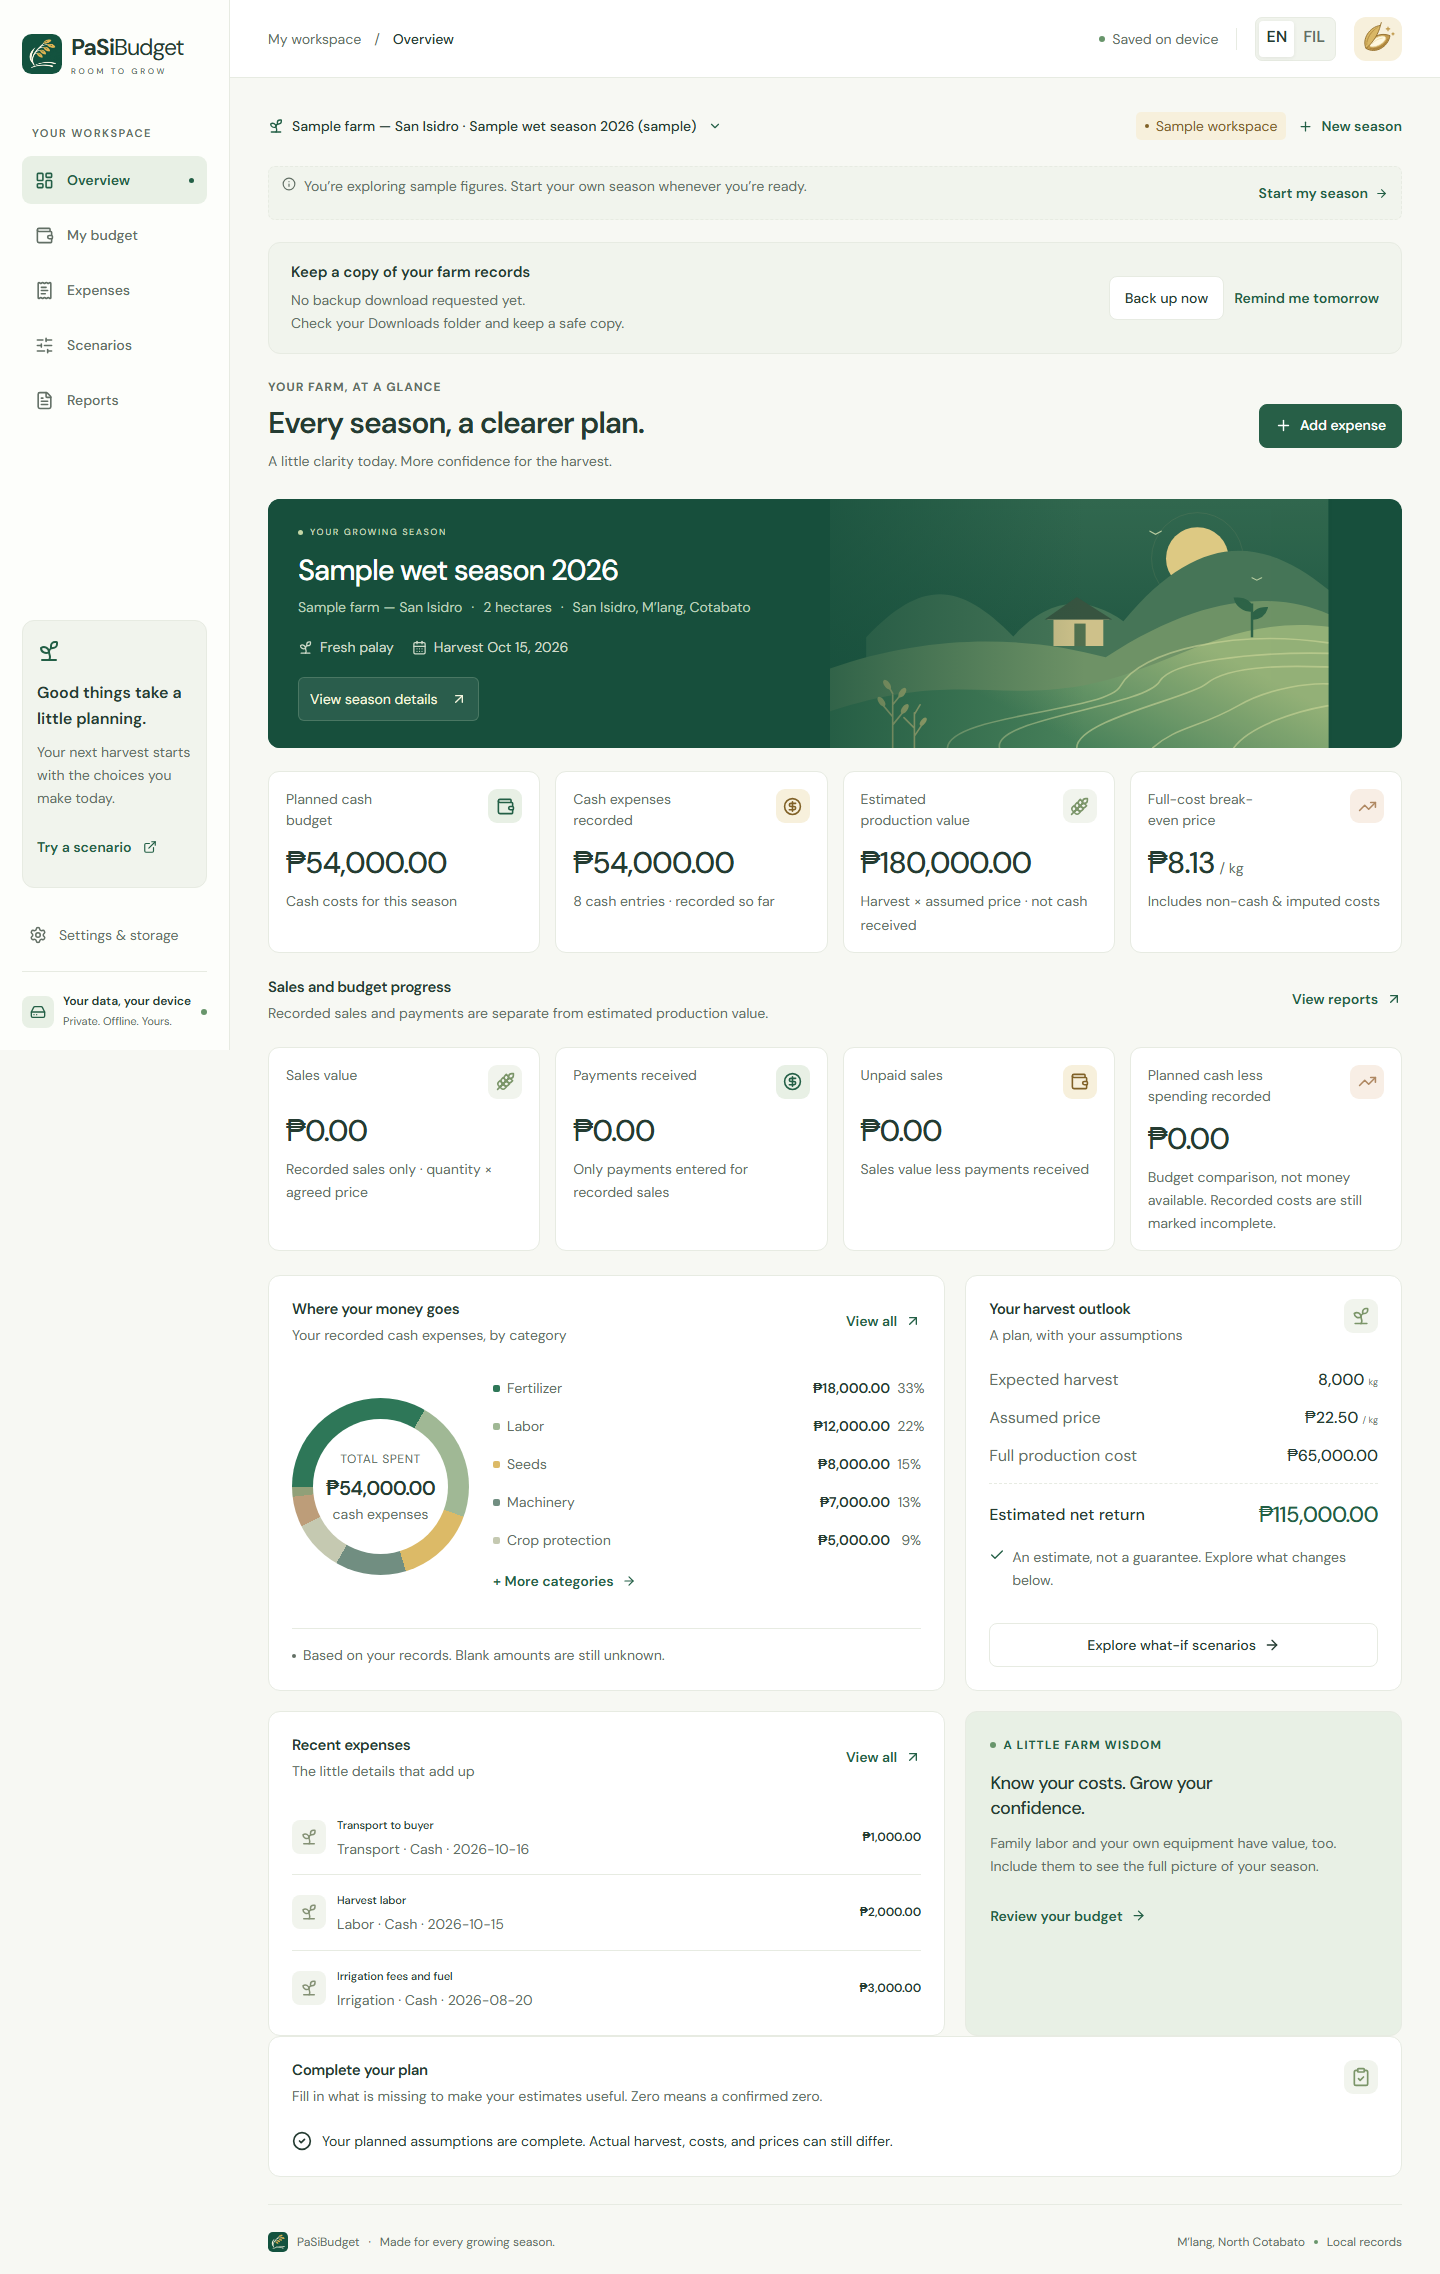
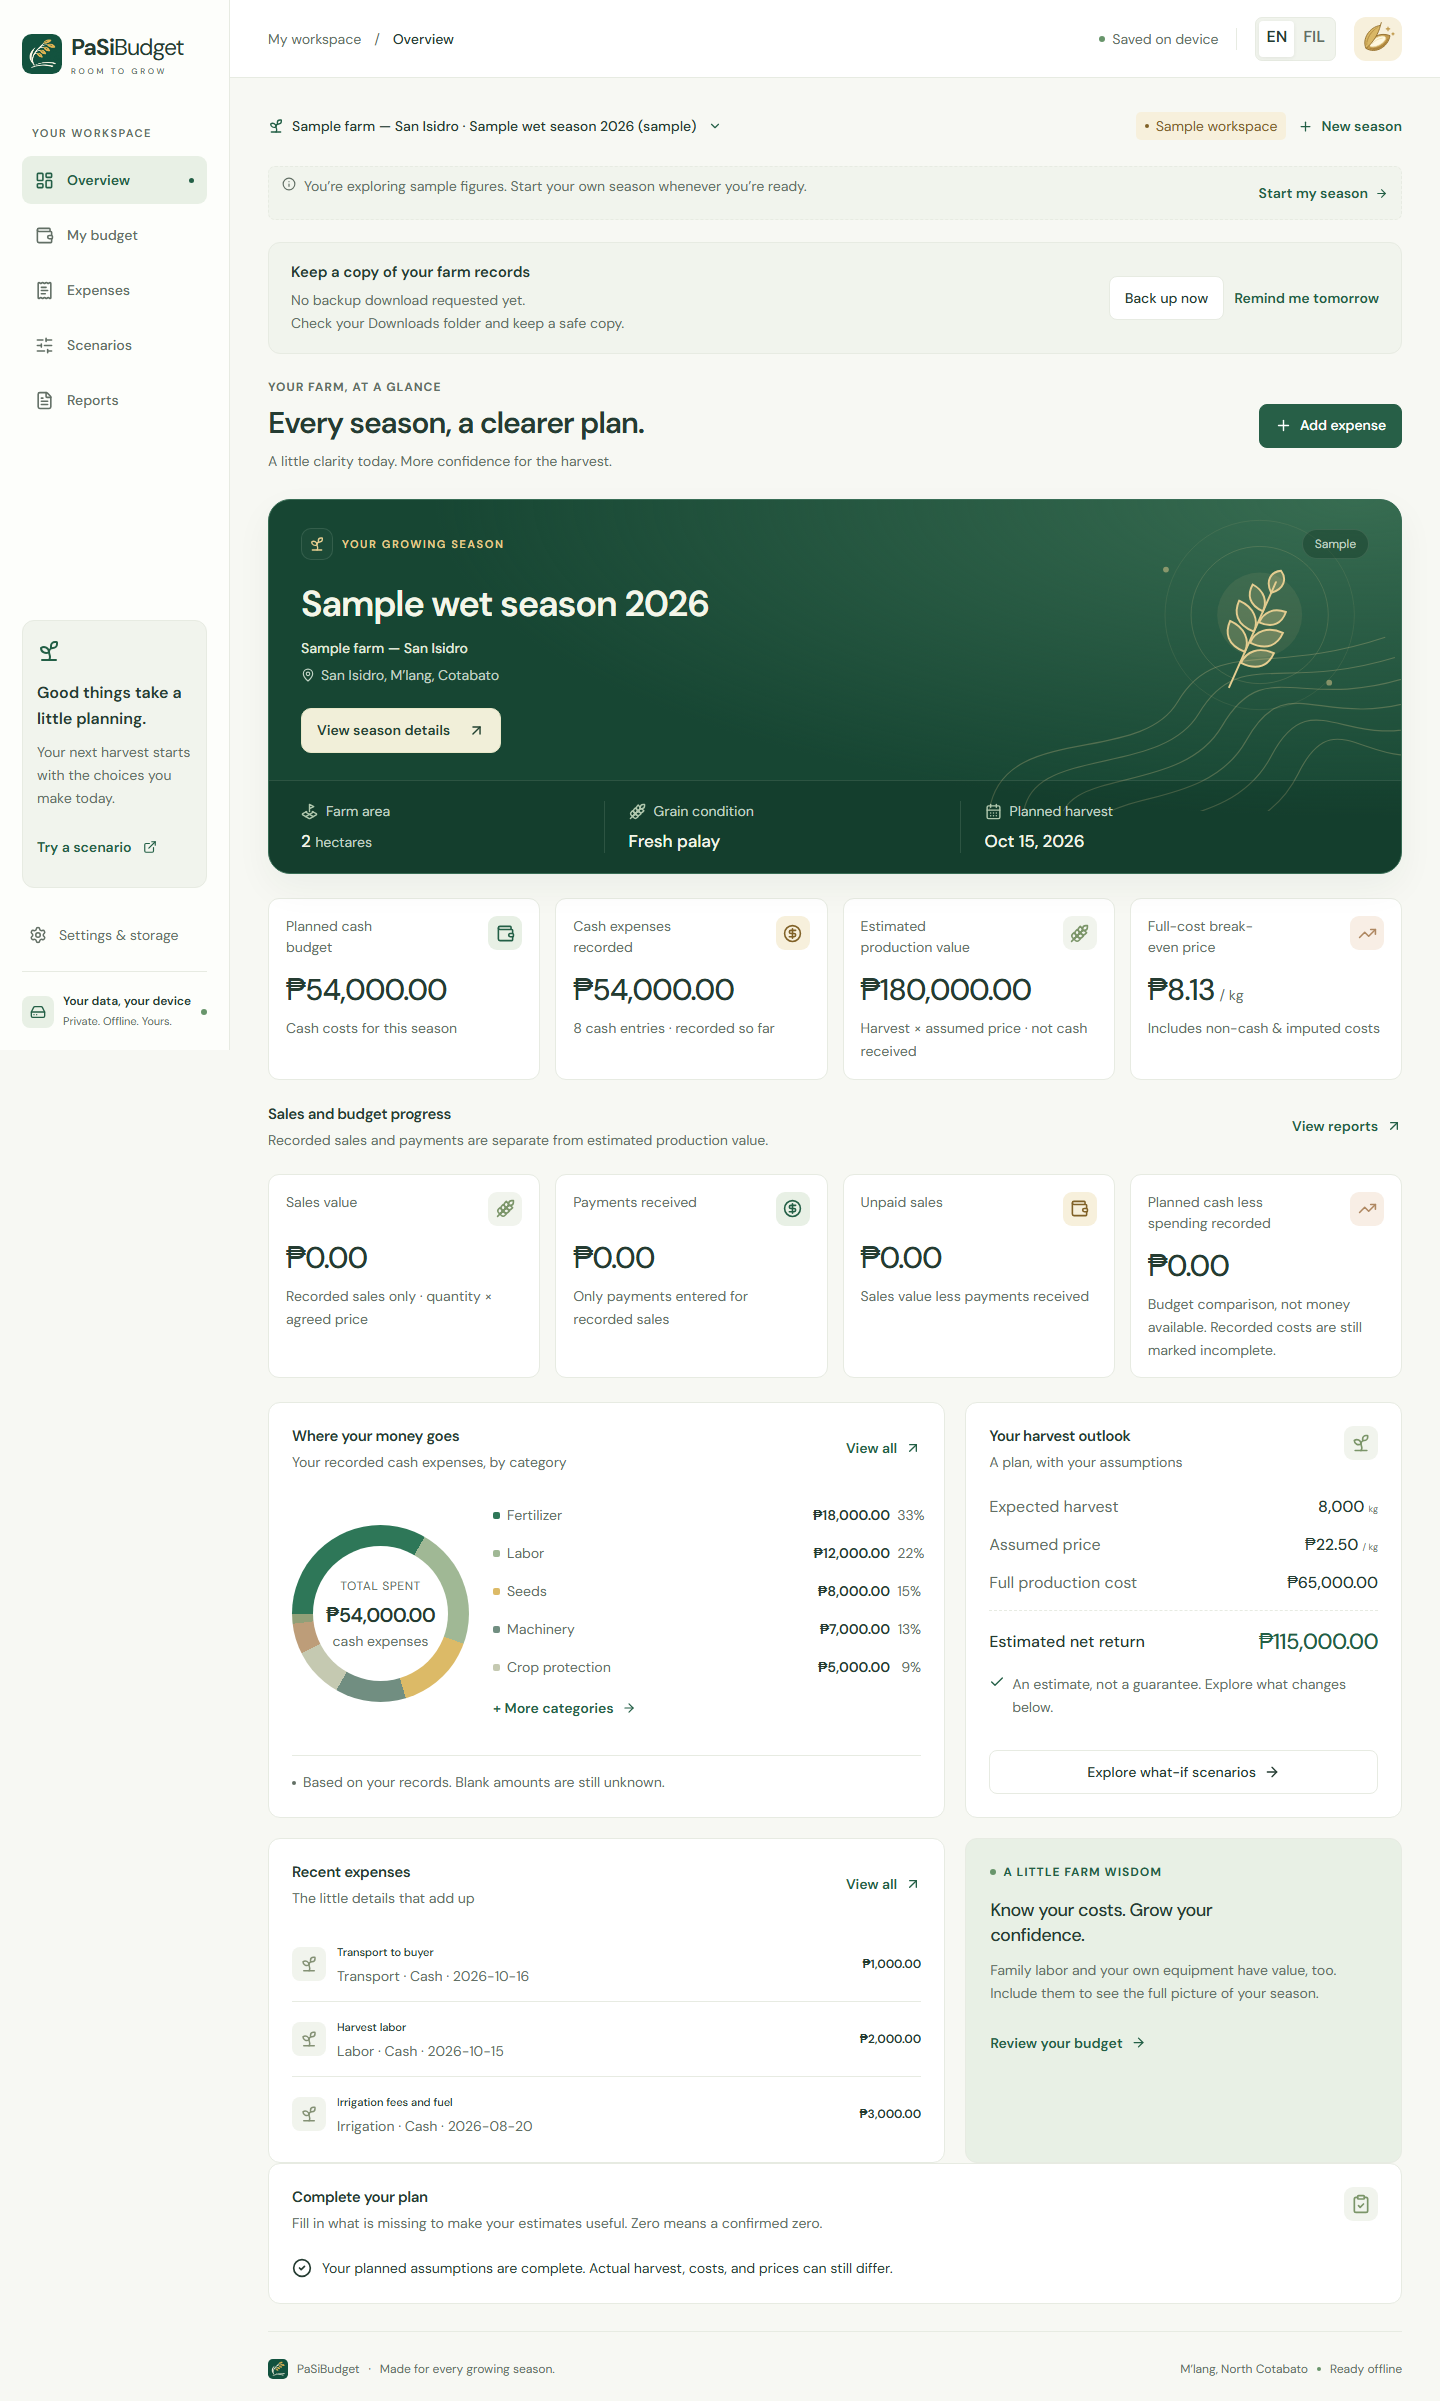
Refresh overview season card with clear farm details and rice artwork

diff --git a/src/pages/season-hero.css b/src/pages/season-hero.css
@@ -1,0 +1,87 @@
+.season-hero.season-banner {
+  --season-ink: #f4f6e9;
+  --season-muted: #c1d3c5;
+  --season-line: #c8dec624;
+  --season-accent: #e5cd90;
+  position: relative;
+  isolation: isolate;
+  min-height: 0;
+  border: 1px solid #386d55;
+  border-radius: 22px;
+  background: radial-gradient(ellipse at 96% 0%, #376c51 0%, transparent 60%), #174633;
+  color: var(--season-ink);
+  box-shadow: 0 14px 36px #1233250d;
+  margin-bottom: 24px;
+}
+[data-theme='dark'] .season-hero.season-banner {
+  --season-muted: #bacbbb;
+  background: radial-gradient(ellipse at 96% 0%, #2b4b38 0%, transparent 60%), #152f24;
+  border-color: #3a5140;
+  box-shadow: 0 14px 36px #00000012;
+}
+.season-banner::after { display: none; }
+.season-banner .hero-copy { padding: 28px 32px 0; z-index: 1; }
+.season-heading-row { display: flex; align-items: center; justify-content: space-between; gap: 16px; }
+.season-kicker { display: inline-flex; align-items: center; gap: 9px; font-size: 11px; font-weight: 600; letter-spacing: 1.6px; line-height: 1.5; color: var(--season-accent); }
+.season-kicker svg { padding: 7px; box-sizing: content-box; border: 1px solid var(--season-line); border-radius: 10px; background: #ffffff06; }
+.season-tag { border: 1px solid var(--season-line); border-radius: 20px; padding: 5px 12px; font-size: 12px; line-height: 1.5; color: var(--season-muted); background: #15382666; }
+.season-intro { position: relative; width: 68%; padding: 23px 0 27px; }
+.season-banner .hero-copy h2 { font-size: clamp(28px, 2.5vw, 36px); font-weight: 600; line-height: 1.18; letter-spacing: -1.1px; margin: 0 0 12px; color: var(--season-ink); overflow-wrap: anywhere; }
+.season-farm { display: grid; gap: 6px; color: var(--season-muted); font-size: 14px; line-height: 1.5; }
+.season-farm strong { font-weight: 500; color: #e1eade; }
+.season-farm > span { display: flex; align-items: flex-start; gap: 6px; overflow-wrap: anywhere; }
+.season-farm svg { margin-top: 3px; }
+.season-details-button { display: inline-flex; gap: 18px; align-items: center; justify-content: space-between; margin-top: 22px; border: 1px solid #e9e8c9; background: #f1efd9; color: #234332; border-radius: 10px; padding: 11px 15px; min-height: 44px; font-size: 14px; font-weight: 600; line-height: 1.5; }
+.season-details-button:hover { background: #fffced; border-color: #fffced; }
+.season-details-button:focus-visible { outline-color: #f0d793; outline-offset: 4px; }
+.season-art { position: absolute; z-index: 0; right: -8px; top: 2px; bottom: 62px; width: 40%; display: flex; align-items: center; color: var(--season-accent); pointer-events: none; }
+.season-art svg { width: 100%; height: 100%; }
+.season-facts { display: grid; grid-template-columns: .85fr 1fr 1.15fr; gap: 0; margin: 0 -32px; border-top: 1px solid var(--season-line); background: #051b1429; padding: 20px 32px; }
+.season-facts > div { min-width: 0; padding-inline: 24px; border-left: 1px solid var(--season-line); }
+.season-facts > div:first-child { border: 0; padding-left: 0; }
+.season-facts > div:last-child { padding-right: 0; }
+.season-facts dt { display: flex; align-items: center; gap: 8px; font-size: 14px; color: var(--season-muted); line-height: 1.5; margin-bottom: 7px; }
+.season-facts dt svg { color: #b1c8ae; }
+.season-facts dd { font-size: 17px; font-weight: 500; line-height: 1.45; margin: 0; overflow-wrap: anywhere; font-variant-numeric: tabular-nums; }
+.season-facts dd span { font-size: 14px; font-weight: 400; color: var(--season-muted); }
+@media (max-width: 1100px) {
+  .season-banner .hero-copy { padding: 24px 24px 0; }
+  .season-facts { margin-inline: -24px; padding-inline: 24px; }
+  .season-facts > div { padding-inline: 16px; }
+  .season-facts dt { gap: 6px; }
+}
+@media (max-width: 600px) {
+  .season-hero.season-banner { border-radius: 18px; }
+  .season-banner .hero-copy { padding: 20px 20px 0; }
+  .season-kicker { font-size: 10px; letter-spacing: 1px; max-width: 76%; }
+  .season-kicker svg { padding: 6px; }
+  .season-tag { font-size: 11px; padding: 4px 9px; }
+  .season-intro { width: 100%; padding-top: 22px; padding-bottom: 22px; }
+  .season-banner .hero-copy h2 { max-width: 100%; font-size: 30px; letter-spacing: -.9px; }
+  .season-art { width: 170px; height: 170px; right: -25px; top: 57px; bottom: auto; opacity: .2; }
+  .season-farm { max-width: 95%; }
+  .season-details-button { width: 100%; margin-top: 20px; }
+  .season-facts { grid-template-columns: 1fr 1fr; gap: 18px 12px; margin-inline: -20px; padding: 20px; }
+  .season-facts > div, .season-facts > div:first-child { padding: 0; border: 0; }
+  .season-facts > div:last-child { grid-column: 1 / -1; border-top: 1px solid var(--season-line); padding-top: 16px; display: flex; flex-wrap: wrap; gap: 8px 16px; justify-content: space-between; align-items: baseline; }
+  .season-facts > div:last-child dt { margin-bottom: 0; }
+  .season-facts dt { font-size: 14px; }
+  .season-facts dd { font-size: 16px; }
+}
+@media print {
+  .season-hero.season-banner, [data-theme='dark'] .season-hero.season-banner {
+    --season-ink: #243c2b;
+    --season-muted: #49604e;
+    --season-line: #ccd4c6;
+    --season-accent: #49604e;
+    background: white;
+    color: var(--season-ink);
+    border-color: var(--season-line);
+    box-shadow: none;
+    break-inside: avoid;
+  }
+  .season-farm strong { color: var(--season-ink); }
+  .season-tag, .season-facts { background: transparent; }
+  .season-facts dt svg { color: var(--season-muted); }
+  .season-art, .season-details-button { display: none; }
+}

diff --git a/src/pages/OverviewPage.tsx b/src/pages/OverviewPage.tsx
@@ -1,7 +1,8 @@
-import { ArrowUpRight, ArrowRight, Plus, Wallet, CircleDollarSign, Wheat, TrendingUp, Check, AlertCircle, Sprout, CalendarDays } from 'lucide-react'
+import { ArrowUpRight, ArrowRight, Plus, Wallet, CircleDollarSign, Wheat, TrendingUp, Check, AlertCircle, Sprout, CalendarDays, MapPin, LandPlot } from 'lucide-react'
 import { calculateBudget, seasonInput } from '../lib/calculations'
 import { categoryLabel, money, number, tr, kindLabel } from '../lib/format'
-import { FarmLandscape } from '../components/Rice'
+import SeasonFieldArt from '../components/SeasonFieldArt'
+import './season-hero.css'
 import PlanChecklist from '../components/PlanChecklist'
 import { overviewFinances } from '../lib/overview'
 import { categories } from '../types'
@@ -26,7 +27,22 @@ export default function OverviewPage({ data, season, lang, navigate, editSeason,
     : season.recordsComplete ? tr(lang, 'Recorded costs marked complete.', 'Kumpirmadong kumpleto ang naitalang gastos.') : tr(lang, 'Recorded costs are still marked incomplete.', 'Hindi pa kumpirmadong kumpleto ang naitalang gastos.')
   return <>
     <div className="page-heading overview-heading"><div><div className="eyebrow">{tr(lang, 'YOUR FARM, AT A GLANCE', 'ISANG SULYAP SA IYONG SAKAHAN')}</div><h1>{tr(lang, 'Every season, a clearer plan.', 'Mas malinaw na plano sa bawat taniman.')}</h1><p className="muted">{tr(lang, 'A little clarity today. More confidence for the harvest.', 'Linaw sa pagpaplano ngayon. Kumpiyansa sa darating na ani.')}</p></div><button className="button primary" onClick={addExpense}><Plus size={17}/>{tr(lang, 'Add expense', 'Magtala ng gastos')}</button></div>
-    <section className="season-hero"><FarmLandscape className="hero-landscape"/><div className="hero-copy"><div className="hero-season"><span className="status-dot"/>{tr(lang, 'YOUR GROWING SEASON', 'IYONG KASALUKUYANG TANIMAN')}</div><h2>{season.name}</h2><p>{farm.name} <span>·</span> {number(season.areaHa===null?null:Number(season.areaHa), 2)} {tr(lang, 'hectares', 'ektarya')} <span>·</span> {farm.location}</p><div className="hero-details"><span><Sprout size={15}/>{season.grainCondition === 'fresh' ? tr(lang, 'Fresh palay', 'Basang palay') : tr(lang, 'Dried palay', 'Tuyong palay')}</span><span><CalendarDays size={15}/>{tr(lang, 'Harvest', 'Ani')} {harvestDate}</span></div><button className="hero-button" onClick={editSeason}>{tr(lang, 'View season details', 'Detalye ng taniman')}<ArrowUpRight size={16}/></button></div></section>
+    <section className="season-hero season-banner" aria-labelledby="season-summary-title">
+      <div className="season-art"><SeasonFieldArt/></div>
+      <div className="hero-copy">
+        <div className="season-heading-row"><span className="season-kicker"><Sprout size={16}/>{tr(lang, 'YOUR GROWING SEASON', 'IYONG KASALUKUYANG TANIMAN')}</span><span className="season-tag">{farm.isSample ? tr(lang, 'Sample', 'Halimbawa') : tr(lang, 'My season', 'Aking taniman')}</span></div>
+        <div className="season-intro">
+          <h2 id="season-summary-title">{season.name}</h2>
+          <div className="season-farm"><strong>{farm.name}</strong>{farm.location && <span><MapPin size={14}/>{farm.location}</span>}</div>
+          <button className="season-details-button" onClick={editSeason}>{tr(lang, 'View season details', 'Detalye ng taniman')}<ArrowUpRight size={17}/></button>
+        </div>
+        <dl className="season-facts">
+          <div><dt><LandPlot size={17}/>{tr(lang, 'Farm area', 'Lawak ng bukid')}</dt><dd>{number(season.areaHa===null?null:Number(season.areaHa), 2)} <span>{tr(lang, 'hectares', 'ektarya')}</span></dd></div>
+          <div><dt><Wheat size={17}/>{tr(lang, 'Grain condition', 'Kondisyon ng palay')}</dt><dd>{season.grainCondition === 'fresh' ? tr(lang, 'Fresh palay', 'Basang palay') : tr(lang, 'Dried palay', 'Tuyong palay')}</dd></div>
+          <div><dt><CalendarDays size={17}/>{tr(lang, 'Planned harvest', 'Planong ani')}</dt><dd>{harvestDate}</dd></div>
+        </dl>
+      </div>
+    </section>
     <div className="metrics-grid">
       <Metric icon={<Wallet size={19}/>} label={tr(lang, 'Planned cash budget', 'Planong salaping badyet')} value={money(calc.cash.knownTotal)} note={calc.cash.complete ? tr(lang, 'Cash costs for this season', 'Salaping gastos ngayong taniman') : tr(lang, 'Known subtotal · incomplete', 'Alam na subtotal · kulang')} accent="green"/>
       <Metric icon={<CircleDollarSign size={19}/>} label={tr(lang, 'Cash expenses recorded', 'Naitalang salaping gastos')} value={money(spent)} note={finances.cashAmountsKnown ? tr(lang, `${expenses.filter(expense => expense.kind === 'cash').length} cash entries · recorded so far`, `${expenses.filter(expense => expense.kind === 'cash').length} salaping tala · hanggang ngayon`) : tr(lang, 'Known subtotal · some cash amounts unknown', 'Alam na subtotal · may hindi pa alam na halaga')} accent="gold"/>

diff --git a/src/components/SeasonFieldArt.tsx b/src/components/SeasonFieldArt.tsx
@@ -1,0 +1,22 @@
+/** Decorative field contours; no forecast, progress or farm measurements implied. */
+export default function SeasonFieldArt() {
+  return <svg viewBox="0 0 420 320" fill="none" aria-hidden="true">
+    <circle cx="290" cy="117" r="98" stroke="currentColor" strokeOpacity=".1"/>
+    <circle cx="290" cy="117" r="71" stroke="currentColor" strokeOpacity=".17"/>
+    <circle cx="290" cy="117" r="44" fill="currentColor" fillOpacity=".09"/>
+    <g stroke="currentColor" strokeWidth="1.2" strokeOpacity=".27">
+      <path d="M10 320C24 227 165 274 205 207S297 181 420 140"/>
+      <path d="M45 330C45 249 186 288 227 219S312 197 430 161"/>
+      <path d="M83 340C79 271 207 307 251 232S331 217 442 182"/>
+      <path d="M123 345C114 295 233 324 276 247S351 238 456 204"/>
+      <path d="M164 356C150 319 260 343 302 263S379 262 469 228"/>
+      <path d="M207 363C191 343 290 362 330 281S404 288 482 254"/>
+    </g>
+    <g transform="translate(255 66) rotate(24 32 64)" stroke="currentColor" strokeWidth="2" strokeLinecap="round">
+      <path d="M31 132V13"/>
+      <path d="M31 92C11 93 4 82 4 69c17 0 27 10 27 23ZM31 69C11 70 4 59 4 46c17 0 27 10 27 23ZM31 46C15 46 9 37 10 25c14 1 21 10 21 21Z" fill="currentColor" fillOpacity=".18"/>
+      <path d="M32 104c20 1 27-10 27-23-17 0-27 10-27 23ZM32 81c20 1 27-10 27-23-17 0-27 10-27 23ZM32 58c16 0 22-9 21-21-14 1-21 10-21 21ZM31 25C20 16 22 5 31 0c9 5 11 16 0 25Z" fill="currentColor" fillOpacity=".3"/>
+    </g>
+    <g fill="currentColor"><circle cx="193" cy="70" r="3" opacity=".5"/><circle cx="362" cy="187" r="3" opacity=".5"/><circle cx="372" cy="47" r="2" opacity=".3"/></g>
+  </svg>
+}

diff --git a/docs/VERIFICATION.md b/docs/VERIFICATION.md
@@ -30,11 +30,13 @@ Tests verify actual-condition isolation, v1-to-v2 database migration without cha
 
 ## Visual evidence and limits
 
+The Overview season card was refreshed with a separate farm/location block, labeled seasonal facts, a prominent details action and bundled decorative rice artwork. The follow-up production build and 21 targeted browser tests pass, covering English/Filipino, both themes, 360/390/768/1440px layouts, unknown area and 200% reflow. The card was also inspected in the running preview at the user's marked 664px width and at phone/desktop widths. Existing saved sample records remain available after the app update. The revised Overview screenshots are in `docs/screenshots/`.
+
 Desktop and phone screenshots are stored in `docs/screenshots/`. The browser suite also generates screenshots and an A4 sample report in the ignored `test-results/` directory. All four A4 sample-report pages were rendered and visually checked. Currency amounts remain on one line, summary cards stay together, and ledger headings repeat across pages. Long user-entered notes and unusual printer settings may require a separate print preview check.
 
 Key text/background contrast pairs were calculated: light muted text ≥4.75:1, dark muted text ≥5.73:1, primary button text 7.46:1 and revised light gold labels 5.05:1. The light focus outline has at least 3.86:1 against the checked surfaces. These checks and keyboard tests are not a full WCAG audit or screen-reader evaluation.
 
-The build produces a bundled offline app. Vite reports a roughly 509 kB minified main JavaScript chunk (156 kB gzip); further code splitting and physical low-end-device performance evaluation remain possible follow-up work.
+The build produces a bundled offline app. Vite reports a roughly 512 kB minified main JavaScript chunk (157 kB gzip); further code splitting and physical low-end-device performance evaluation remain possible follow-up work.
 
 ## Delivery boundary
 
